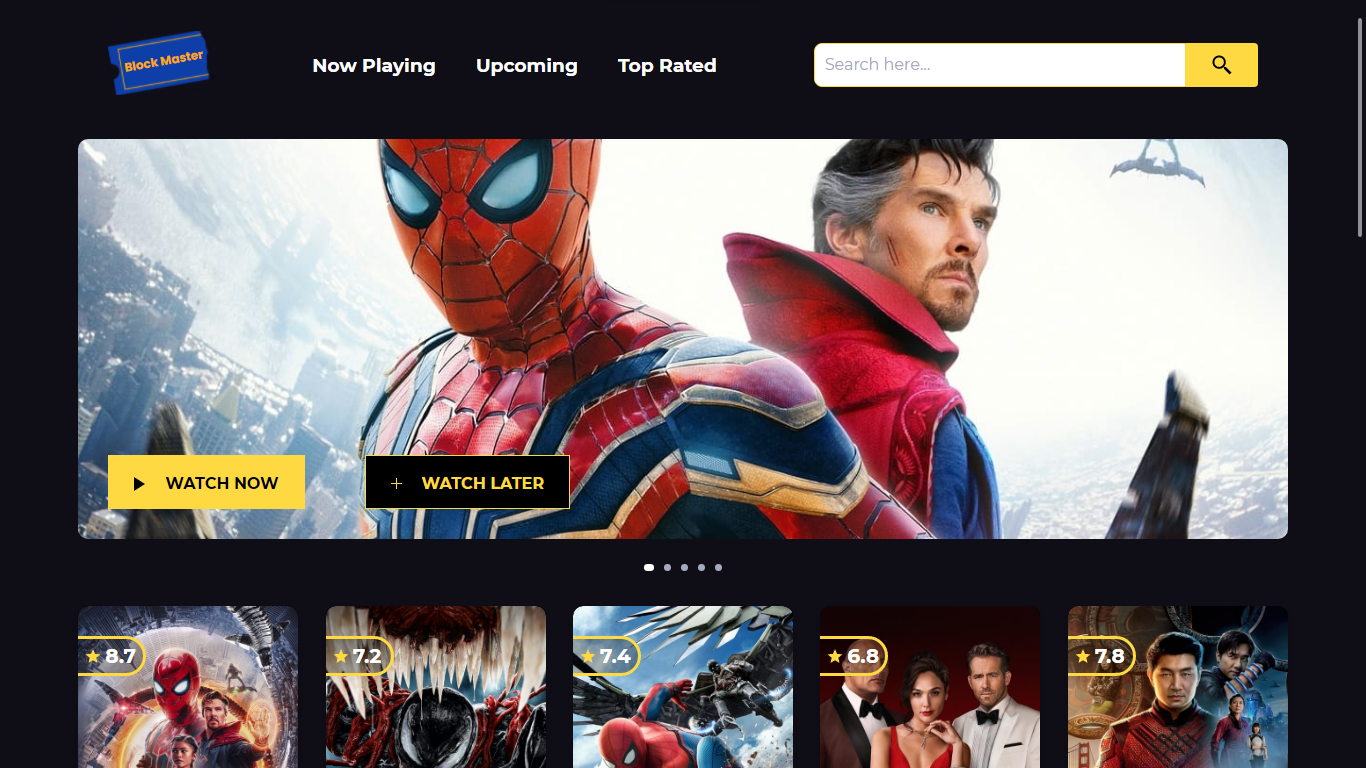
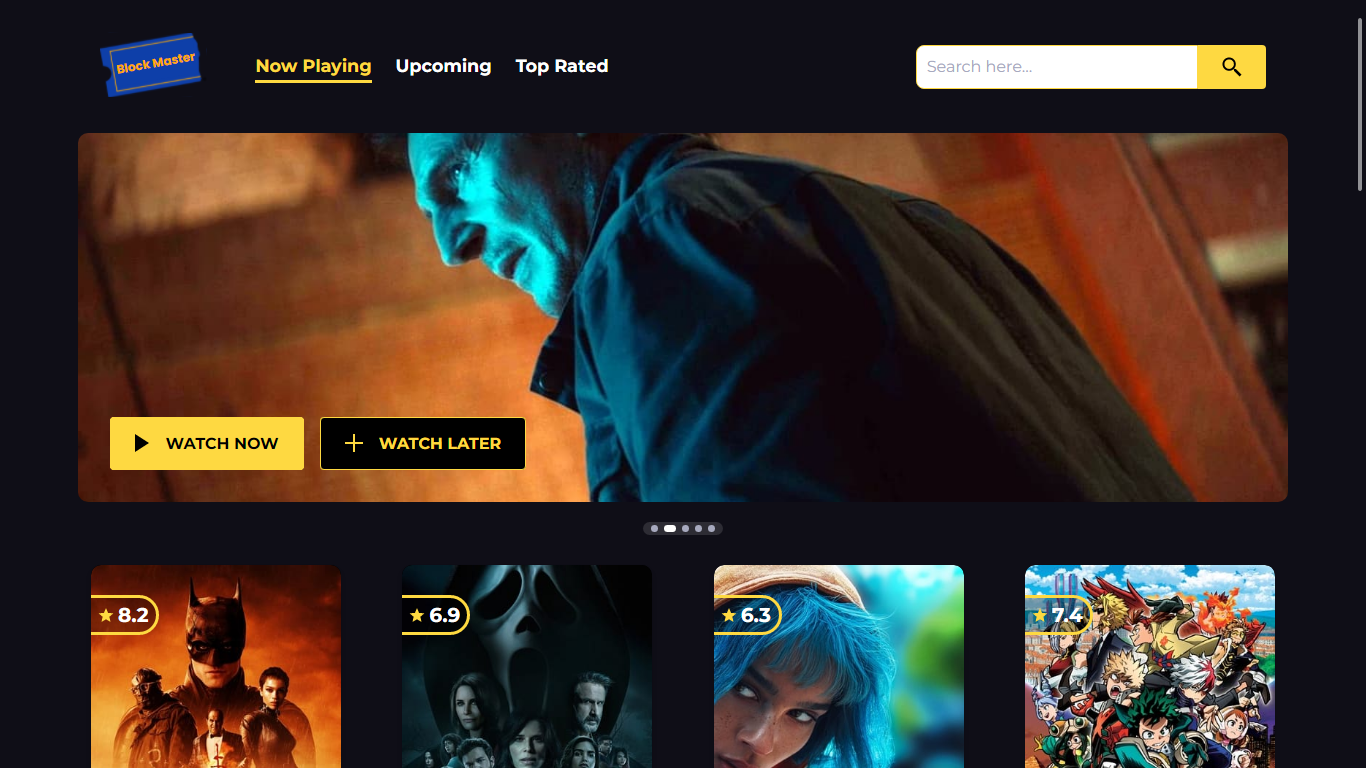
bug fixes & tweaks

diff --git a/src/styles/Slider.css b/src/styles/Slider.css
@@ -24,43 +24,40 @@
   left: 0px;
   bottom: 0px;
   display: flex;
-  justify-content: space-between;
-  align-items: center;
-  gap: 4em;
+  gap: 1em;
   margin: 2em;
 }
 
-.btn-container .now,
-.btn-container .later {
-  padding: 0.6em 1.5em;
+.btn-container .slider-btn {
+  background-color: var(--primary);
+  color: var(--black);
+  display: flex;
+  justify-content: center;
+  align-items: center;
+  gap: 1em;
+  padding: 1em 1.5em;
   border: 1px solid var(--primary);
+  border-radius: 4px;
   cursor: pointer;
 }
 
-.btn-container .now,
-.btn-container .now a {
-  color: var(--black);
-  background-color: var(--primary);
+.btn-container .slider-btn img {
+  height: 18px;
 }
 
-.btn-container .now img,
-.btn-container .later img {
-  width: 11px;
-  margin-right: 20px;
+.btn-container .slider-btn a {
+  color: var(--black);
+  background-color: var(--primary);
+  font-family: 'Montserrat';
+  font-weight: 700;
+  text-decoration: none;
+  text-transform: uppercase;
 }
 
 .btn-container .later,
 .btn-container .later a {
   color: var(--primary);
   background-color: var(--black);
-}
-
-.btn-container a {
-  font-family: 'Montserrat';
-  font-weight: 700;
-  text-decoration: none;
-  text-transform: uppercase;
-  line-height: 2em;
 }
 
 .banner.activeSlide {
@@ -85,12 +82,10 @@
   .slider-container .btn-container {
     gap: 2em;
   }
-  .btn-container .now,
-  .btn-container .later {
+  .btn-container .slider-btn {
     padding: 0.3em 1em;
   }
-  .btn-container .now img,
-  .btn-container .later img {
+  .btn-container .slider-btn img {
     width: 8px;
     margin-right: 10px;
   }
@@ -102,7 +97,7 @@
 /* indicators */
 
 .ind-container {
-  background-color: rgba(211, 211, 211, 0.2);
+  background-color: rgba(211, 211, 211, 0.15);
   width: max-content;
   margin: 0 auto;
   border-radius: 500px;

diff --git a/src/components/Slider.js b/src/components/Slider.js
@@ -49,11 +49,11 @@ const Slider = ({ url }) => {
                 alt={title}
               />
               <div className='btn-container'>
-                <div className='now'>
+                <div className='slider-btn now'>
                   <img src={play} alt='' />
                   <a href='/#'>Watch Now</a>
                 </div>
-                <div className='later'>
+                <div className='slider-btn later'>
                   <img src={add} alt='' />
                   <a href='/#'>Watch Later</a>
                 </div>

diff --git a/src/styles/Movie.css b/src/styles/Movie.css
@@ -2,7 +2,7 @@
   background-color: var(--black);
   font-family: 'Poppins';
   position: relative;
-  width: 220px;
+  width: 250px;
   margin: 0 10px 10px;
   overflow: hidden;
   border-radius: 10px;

diff --git a/src/styles/Main.css b/src/styles/Main.css
@@ -1,7 +1,7 @@
 .container {
   display: flex;
   flex-wrap: wrap;
-  justify-content: center;
+  justify-content: space-around;
   gap: 1em;
 }
 
